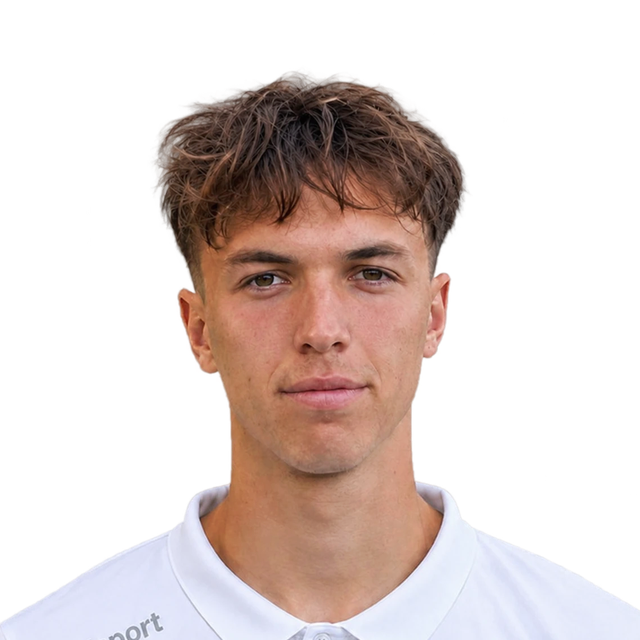
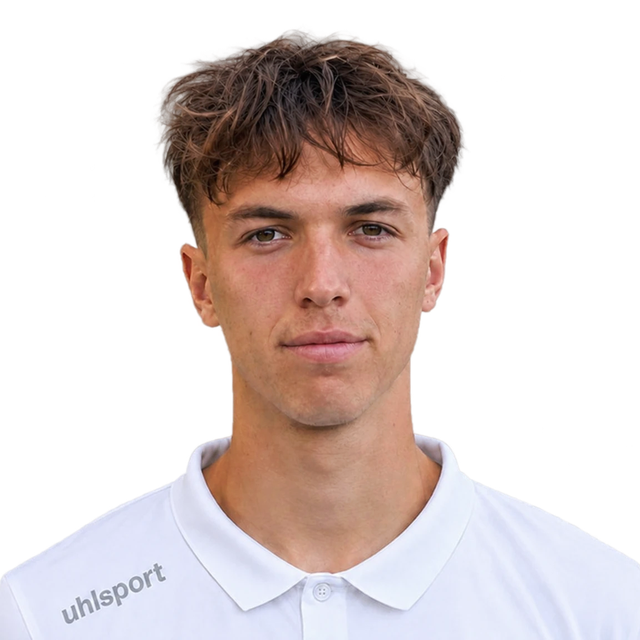
About Me: show more shirt, keep photo inside the gold ring
Wider crop down to the chest, clipped to a circle inside the ring with a
light bottom fade.

Changed region(s): [[0.0, 0.0312, 1.0, 1.0], [0.5312, 0.8125, 0.5625, 0.8438], [0.3125, 0.9688, 0.3438, 1.0]]

diff --git a/src/styles/global.css b/src/styles/global.css
@@ -1002,9 +1002,11 @@ a:hover {
   height: 100%;
   object-fit: cover;
   object-position: center top;
-  /* Transparent cutout straight on the page; shoulders fade out at the bottom. */
-  -webkit-mask-image: linear-gradient(to bottom, #000 62%, transparent 96%);
-  mask-image: linear-gradient(to bottom, #000 62%, transparent 96%);
+  /* Transparent cutout clipped to a circle inside the gold ring (no disc,
+     no border); only the last few pixels at the bottom soften. */
+  border-radius: 50%;
+  -webkit-mask-image: linear-gradient(to bottom, #000 88%, transparent 100%);
+  mask-image: linear-gradient(to bottom, #000 88%, transparent 100%);
   will-change: transform;
 }
 
